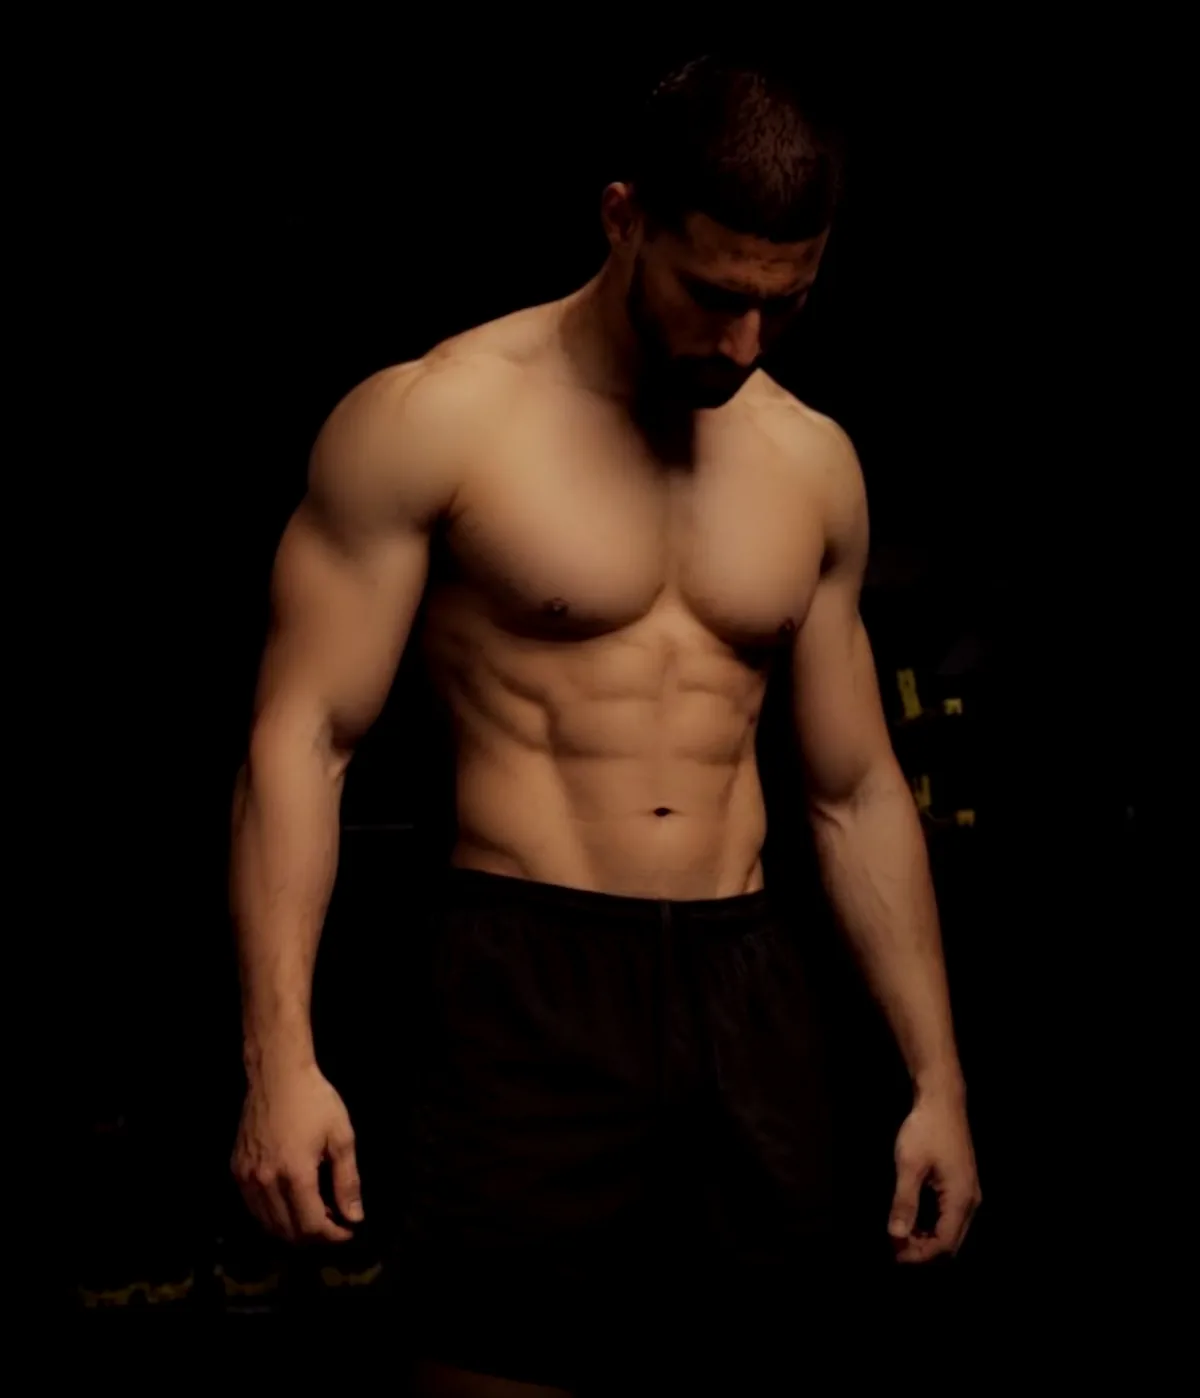
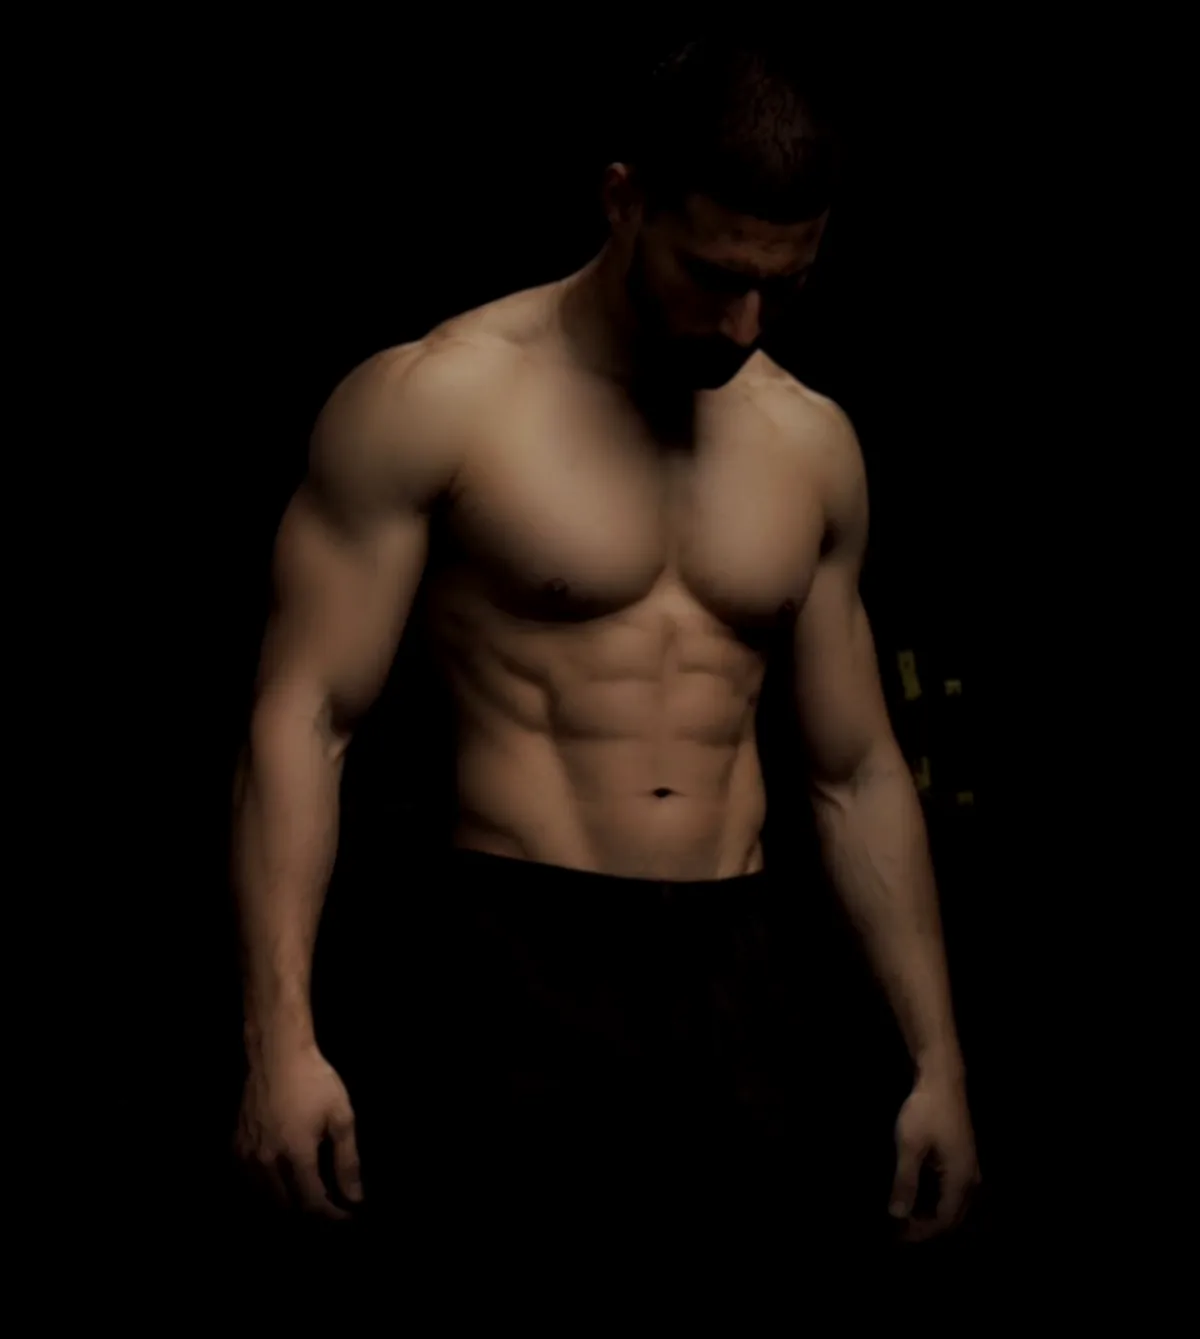
Coaching hero: final neutral-tone photo
Claude-Session: https://claude.ai/code/session_01JVtyGLL2rkCAeaZXtAcKGK

diff --git a/coaching.html b/coaching.html
@@ -10,7 +10,7 @@
 <link rel="apple-touch-icon" href="/assets/img/apple-touch-icon.png">
 <link rel="preconnect" href="https://fonts.googleapis.com">
 <link rel="stylesheet" href="https://fonts.googleapis.com/css2?family=Russo+One&family=Bebas+Neue&family=Inter:wght@400;500;600;700&display=swap">
-<link rel="stylesheet" href="/assets/style.css?v=202610272137">
+<link rel="stylesheet" href="/assets/style.css?v=202610272141">
 <script defer src="/_vercel/insights/script.js"></script>
 <script>
 !function(t,e){var o,n,p,r;e.__SV||(window.posthog=e,e._i=[],e.init=function(i,s,a){function g(t,e){var o=e.split(".");2==o.length&&(t=t[o[0]],e=o[1]),t[e]=function(){t.push([e].concat(Array.prototype.slice.call(arguments,0)))}}(p=t.createElement("script")).type="text/javascript",p.crossOrigin="anonymous",p.async=!0,p.src=s.api_host.replace(".i.posthog.com","-assets.i.posthog.com")+"/static/array.js",(r=t.getElementsByTagName("script")[0]).parentNode.insertBefore(p,r);var u=e;for(void 0!==a?u=e[a]=[]:a="posthog",u.people=u.people||[],u.toString=function(t){var e="posthog";return"posthog"!==a&&(e+="."+a),t||(e+=" (stub)"),e},u.people.toString=function(){return u.toString(1)+".people (stub)"},o="init capture register register_once register_for_session unregister unregister_for_session getFeatureFlag getFeatureFlagPayload isFeatureEnabled reloadFeatureFlags updateEarlyAccessFeatureEnrollment getEarlyAccessFeatures on onFeatureFlags onSessionId getSurveys getActiveMatchingSurveys renderSurvey canRenderSurvey identify setPersonProperties group resetGroups setPersonPropertiesForFlags resetPersonPropertiesForFlags setGroupPropertiesForFlags resetGroupPropertiesForFlags reset get_distinct_id getGroups get_session_id get_session_replay_url alias set_config startSessionRecording stopSessionRecording sessionRecordingStarted captureException loadToolbar get_property getSessionProperty createPersonProfile opt_in_capturing opt_out_capturing has_opted_in_capturing has_opted_out_capturing clear_opt_in_out_capturing debug getPageViewId captureTraceFeedback captureTraceMetric".split(" "),n=0;n<o.length;n++)g(u,o[n]);e._i.push([i,s,a])},e.__SV=1)}(document,window.posthog||[]);
@@ -52,8 +52,8 @@ posthog.init('phc_C28JrHMEpH7d9g8dcuLgvfjdZ2WqwZE8aeRjLSCBrC3R',{api_host:'https
     </div>
     <div class="coach-photo">
       <picture>
-        <source srcset="/assets/img/cris-hero.webp?v=202610272137" type="image/webp">
-        <img src="/assets/img/cris-hero.jpg?v=202610272137" alt="Cris, Gaincations coach" width="1200" height="1398" fetchpriority="high">
+        <source srcset="/assets/img/cris-hero.webp?v=202610272141" type="image/webp">
+        <img src="/assets/img/cris-hero.jpg?v=202610272141" alt="Cris, Gaincations coach" width="1200" height="1339" fetchpriority="high">
       </picture>
     </div>
   </div>
@@ -191,6 +191,6 @@ posthog.init('phc_C28JrHMEpH7d9g8dcuLgvfjdZ2WqwZE8aeRjLSCBrC3R',{api_host:'https
   </div>
 </footer>
 <script>document.getElementById("y").textContent=new Date().getFullYear()</script>
-<script src="/assets/site.js?v=202610272137"></script>
+<script src="/assets/site.js?v=202610272141"></script>
 </body>
 </html>

diff --git a/index.html b/index.html
@@ -13,7 +13,7 @@
 <link rel="apple-touch-icon" href="/assets/img/apple-touch-icon.png">
 <link rel="preconnect" href="https://fonts.googleapis.com">
 <link rel="stylesheet" href="https://fonts.googleapis.com/css2?family=Russo+One&family=Bebas+Neue&family=Inter:wght@400;500;600;700&display=swap">
-<link rel="stylesheet" href="/assets/style.css?v=202610272137">
+<link rel="stylesheet" href="/assets/style.css?v=202610272141">
 <script defer src="/_vercel/insights/script.js"></script>
 <script>
 !function(t,e){var o,n,p,r;e.__SV||(window.posthog=e,e._i=[],e.init=function(i,s,a){function g(t,e){var o=e.split(".");2==o.length&&(t=t[o[0]],e=o[1]),t[e]=function(){t.push([e].concat(Array.prototype.slice.call(arguments,0)))}}(p=t.createElement("script")).type="text/javascript",p.crossOrigin="anonymous",p.async=!0,p.src=s.api_host.replace(".i.posthog.com","-assets.i.posthog.com")+"/static/array.js",(r=t.getElementsByTagName("script")[0]).parentNode.insertBefore(p,r);var u=e;for(void 0!==a?u=e[a]=[]:a="posthog",u.people=u.people||[],u.toString=function(t){var e="posthog";return"posthog"!==a&&(e+="."+a),t||(e+=" (stub)"),e},u.people.toString=function(){return u.toString(1)+".people (stub)"},o="init capture register register_once register_for_session unregister unregister_for_session getFeatureFlag getFeatureFlagPayload isFeatureEnabled reloadFeatureFlags updateEarlyAccessFeatureEnrollment getEarlyAccessFeatures on onFeatureFlags onSessionId getSurveys getActiveMatchingSurveys renderSurvey canRenderSurvey identify setPersonProperties group resetGroups setPersonPropertiesForFlags resetPersonPropertiesForFlags setGroupPropertiesForFlags resetGroupPropertiesForFlags reset get_distinct_id getGroups get_session_id get_session_replay_url alias set_config startSessionRecording stopSessionRecording sessionRecordingStarted captureException loadToolbar get_property getSessionProperty createPersonProfile opt_in_capturing opt_out_capturing has_opted_in_capturing has_opted_out_capturing clear_opt_in_out_capturing debug getPageViewId captureTraceFeedback captureTraceMetric".split(" "),n=0;n<o.length;n++)g(u,o[n]);e._i.push([i,s,a])},e.__SV=1)}(document,window.posthog||[]);
@@ -215,7 +215,7 @@ posthog.init('phc_C28JrHMEpH7d9g8dcuLgvfjdZ2WqwZE8aeRjLSCBrC3R',{api_host:'https
   </div>
 </footer>
 <script>document.getElementById("y").textContent=new Date().getFullYear()</script>
-<script src="/assets/quiz.js?v=202610272137"></script>
-<script src="/assets/site.js?v=202610272137"></script>
+<script src="/assets/quiz.js?v=202610272141"></script>
+<script src="/assets/site.js?v=202610272141"></script>
 </body>
 </html>

diff --git a/agreement.html b/agreement.html
@@ -10,7 +10,7 @@
 <link rel="apple-touch-icon" href="/assets/img/apple-touch-icon.png">
 <link rel="preconnect" href="https://fonts.googleapis.com">
 <link rel="stylesheet" href="https://fonts.googleapis.com/css2?family=Russo+One&family=Bebas+Neue&family=Inter:wght@400;500;600;700&display=swap">
-<link rel="stylesheet" href="/assets/style.css?v=202610272137">
+<link rel="stylesheet" href="/assets/style.css?v=202610272141">
 <script defer src="/_vercel/insights/script.js"></script>
 <script>
 !function(t,e){var o,n,p,r;e.__SV||(window.posthog=e,e._i=[],e.init=function(i,s,a){function g(t,e){var o=e.split(".");2==o.length&&(t=t[o[0]],e=o[1]),t[e]=function(){t.push([e].concat(Array.prototype.slice.call(arguments,0)))}}(p=t.createElement("script")).type="text/javascript",p.crossOrigin="anonymous",p.async=!0,p.src=s.api_host.replace(".i.posthog.com","-assets.i.posthog.com")+"/static/array.js",(r=t.getElementsByTagName("script")[0]).parentNode.insertBefore(p,r);var u=e;for(void 0!==a?u=e[a]=[]:a="posthog",u.people=u.people||[],u.toString=function(t){var e="posthog";return"posthog"!==a&&(e+="."+a),t||(e+=" (stub)"),e},u.people.toString=function(){return u.toString(1)+".people (stub)"},o="init capture register register_once register_for_session unregister unregister_for_session getFeatureFlag getFeatureFlagPayload isFeatureEnabled reloadFeatureFlags updateEarlyAccessFeatureEnrollment getEarlyAccessFeatures on onFeatureFlags onSessionId getSurveys getActiveMatchingSurveys renderSurvey canRenderSurvey identify setPersonProperties group resetGroups setPersonPropertiesForFlags resetPersonPropertiesForFlags setGroupPropertiesForFlags resetGroupPropertiesForFlags reset get_distinct_id getGroups get_session_id get_session_replay_url alias set_config startSessionRecording stopSessionRecording sessionRecordingStarted captureException loadToolbar get_property getSessionProperty createPersonProfile opt_in_capturing opt_out_capturing has_opted_in_capturing has_opted_out_capturing clear_opt_in_out_capturing debug getPageViewId captureTraceFeedback captureTraceMetric".split(" "),n=0;n<o.length;n++)g(u,o[n]);e._i.push([i,s,a])},e.__SV=1)}(document,window.posthog||[]);
@@ -89,7 +89,7 @@ posthog.init('phc_C28JrHMEpH7d9g8dcuLgvfjdZ2WqwZE8aeRjLSCBrC3R',{api_host:'https
   </div>
 </footer>
 <script>document.getElementById("y").textContent=new Date().getFullYear()</script>
-<script src="/assets/site.js?v=202610272137"></script>
+<script src="/assets/site.js?v=202610272141"></script>
 <script>try{posthog.capture("purchase_completed")}catch(e){}</script>
 </body>
 </html>

diff --git a/welcome.html b/welcome.html
@@ -10,7 +10,7 @@
 <link rel="apple-touch-icon" href="/assets/img/apple-touch-icon.png">
 <link rel="preconnect" href="https://fonts.googleapis.com">
 <link rel="stylesheet" href="https://fonts.googleapis.com/css2?family=Russo+One&family=Bebas+Neue&family=Inter:wght@400;500;600;700&display=swap">
-<link rel="stylesheet" href="/assets/style.css?v=202610272137">
+<link rel="stylesheet" href="/assets/style.css?v=202610272141">
 <script defer src="/_vercel/insights/script.js"></script>
 <script>
 !function(t,e){var o,n,p,r;e.__SV||(window.posthog=e,e._i=[],e.init=function(i,s,a){function g(t,e){var o=e.split(".");2==o.length&&(t=t[o[0]],e=o[1]),t[e]=function(){t.push([e].concat(Array.prototype.slice.call(arguments,0)))}}(p=t.createElement("script")).type="text/javascript",p.crossOrigin="anonymous",p.async=!0,p.src=s.api_host.replace(".i.posthog.com","-assets.i.posthog.com")+"/static/array.js",(r=t.getElementsByTagName("script")[0]).parentNode.insertBefore(p,r);var u=e;for(void 0!==a?u=e[a]=[]:a="posthog",u.people=u.people||[],u.toString=function(t){var e="posthog";return"posthog"!==a&&(e+="."+a),t||(e+=" (stub)"),e},u.people.toString=function(){return u.toString(1)+".people (stub)"},o="init capture register register_once register_for_session unregister unregister_for_session getFeatureFlag getFeatureFlagPayload isFeatureEnabled reloadFeatureFlags updateEarlyAccessFeatureEnrollment getEarlyAccessFeatures on onFeatureFlags onSessionId getSurveys getActiveMatchingSurveys renderSurvey canRenderSurvey identify setPersonProperties group resetGroups setPersonPropertiesForFlags resetPersonPropertiesForFlags setGroupPropertiesForFlags resetGroupPropertiesForFlags reset get_distinct_id getGroups get_session_id get_session_replay_url alias set_config startSessionRecording stopSessionRecording sessionRecordingStarted captureException loadToolbar get_property getSessionProperty createPersonProfile opt_in_capturing opt_out_capturing has_opted_in_capturing has_opted_out_capturing clear_opt_in_out_capturing debug getPageViewId captureTraceFeedback captureTraceMetric".split(" "),n=0;n<o.length;n++)g(u,o[n]);e._i.push([i,s,a])},e.__SV=1)}(document,window.posthog||[]);
@@ -78,7 +78,7 @@ posthog.init('phc_C28JrHMEpH7d9g8dcuLgvfjdZ2WqwZE8aeRjLSCBrC3R',{api_host:'https
   </div>
 </footer>
 <script>document.getElementById("y").textContent=new Date().getFullYear()</script>
-<script src="/assets/site.js?v=202610272137"></script>
+<script src="/assets/site.js?v=202610272141"></script>
 <script>try{posthog.capture("purchase_completed")}catch(e){}</script>
 </body>
 </html>

diff --git a/gear.html b/gear.html
@@ -10,7 +10,7 @@
 <link rel="apple-touch-icon" href="/assets/img/apple-touch-icon.png">
 <link rel="preconnect" href="https://fonts.googleapis.com">
 <link rel="stylesheet" href="https://fonts.googleapis.com/css2?family=Russo+One&family=Inter:wght@400;500;600;700&display=swap">
-<link rel="stylesheet" href="/assets/style.css?v=202610272137">
+<link rel="stylesheet" href="/assets/style.css?v=202610272141">
 <script defer src="/_vercel/insights/script.js"></script>
 <script>
 !function(t,e){var o,n,p,r;e.__SV||(window.posthog=e,e._i=[],e.init=function(i,s,a){function g(t,e){var o=e.split(".");2==o.length&&(t=t[o[0]],e=o[1]),t[e]=function(){t.push([e].concat(Array.prototype.slice.call(arguments,0)))}}(p=t.createElement("script")).type="text/javascript",p.crossOrigin="anonymous",p.async=!0,p.src=s.api_host.replace(".i.posthog.com","-assets.i.posthog.com")+"/static/array.js",(r=t.getElementsByTagName("script")[0]).parentNode.insertBefore(p,r);var u=e;for(void 0!==a?u=e[a]=[]:a="posthog",u.people=u.people||[],u.toString=function(t){var e="posthog";return"posthog"!==a&&(e+="."+a),t||(e+=" (stub)"),e},u.people.toString=function(){return u.toString(1)+".people (stub)"},o="init capture register register_once register_for_session unregister unregister_for_session getFeatureFlag getFeatureFlagPayload isFeatureEnabled reloadFeatureFlags updateEarlyAccessFeatureEnrollment getEarlyAccessFeatures on onFeatureFlags onSessionId getSurveys getActiveMatchingSurveys renderSurvey canRenderSurvey identify setPersonProperties group resetGroups setPersonPropertiesForFlags resetPersonPropertiesForFlags setGroupPropertiesForFlags resetGroupPropertiesForFlags reset get_distinct_id getGroups get_session_id get_session_replay_url alias set_config startSessionRecording stopSessionRecording sessionRecordingStarted captureException loadToolbar get_property getSessionProperty createPersonProfile opt_in_capturing opt_out_capturing has_opted_in_capturing has_opted_out_capturing clear_opt_in_out_capturing debug getPageViewId captureTraceFeedback captureTraceMetric".split(" "),n=0;n<o.length;n++)g(u,o[n]);e._i.push([i,s,a])},e.__SV=1)}(document,window.posthog||[]);
@@ -100,6 +100,6 @@ posthog.init('phc_C28JrHMEpH7d9g8dcuLgvfjdZ2WqwZE8aeRjLSCBrC3R',{api_host:'https
   </div>
 </footer>
 <script>document.getElementById("y").textContent=new Date().getFullYear()</script>
-<script src="/assets/site.js?v=202610272137"></script>
+<script src="/assets/site.js?v=202610272141"></script>
 </body>
 </html>

diff --git a/free.html b/free.html
@@ -10,7 +10,7 @@
 <link rel="apple-touch-icon" href="/assets/img/apple-touch-icon.png">
 <link rel="preconnect" href="https://fonts.googleapis.com">
 <link rel="stylesheet" href="https://fonts.googleapis.com/css2?family=Russo+One&family=Inter:wght@400;500;600;700&display=swap">
-<link rel="stylesheet" href="/assets/style.css?v=202610272137">
+<link rel="stylesheet" href="/assets/style.css?v=202610272141">
 <script defer src="/_vercel/insights/script.js"></script>
 <script>
 !function(t,e){var o,n,p,r;e.__SV||(window.posthog=e,e._i=[],e.init=function(i,s,a){function g(t,e){var o=e.split(".");2==o.length&&(t=t[o[0]],e=o[1]),t[e]=function(){t.push([e].concat(Array.prototype.slice.call(arguments,0)))}}(p=t.createElement("script")).type="text/javascript",p.crossOrigin="anonymous",p.async=!0,p.src=s.api_host.replace(".i.posthog.com","-assets.i.posthog.com")+"/static/array.js",(r=t.getElementsByTagName("script")[0]).parentNode.insertBefore(p,r);var u=e;for(void 0!==a?u=e[a]=[]:a="posthog",u.people=u.people||[],u.toString=function(t){var e="posthog";return"posthog"!==a&&(e+="."+a),t||(e+=" (stub)"),e},u.people.toString=function(){return u.toString(1)+".people (stub)"},o="init capture register register_once register_for_session unregister unregister_for_session getFeatureFlag getFeatureFlagPayload isFeatureEnabled reloadFeatureFlags updateEarlyAccessFeatureEnrollment getEarlyAccessFeatures on onFeatureFlags onSessionId getSurveys getActiveMatchingSurveys renderSurvey canRenderSurvey identify setPersonProperties group resetGroups setPersonPropertiesForFlags resetPersonPropertiesForFlags setGroupPropertiesForFlags resetGroupPropertiesForFlags reset get_distinct_id getGroups get_session_id get_session_replay_url alias set_config startSessionRecording stopSessionRecording sessionRecordingStarted captureException loadToolbar get_property getSessionProperty createPersonProfile opt_in_capturing opt_out_capturing has_opted_in_capturing has_opted_out_capturing clear_opt_in_out_capturing debug getPageViewId captureTraceFeedback captureTraceMetric".split(" "),n=0;n<o.length;n++)g(u,o[n]);e._i.push([i,s,a])},e.__SV=1)}(document,window.posthog||[]);
@@ -84,6 +84,6 @@ posthog.init('phc_C28JrHMEpH7d9g8dcuLgvfjdZ2WqwZE8aeRjLSCBrC3R',{api_host:'https
   </div>
 </footer>
 <script>document.getElementById("y").textContent=new Date().getFullYear()</script>
-<script src="/assets/site.js?v=202610272137"></script>
+<script src="/assets/site.js?v=202610272141"></script>
 </body>
 </html>

diff --git a/programs.html b/programs.html
@@ -11,7 +11,7 @@
 <link rel="apple-touch-icon" href="/assets/img/apple-touch-icon.png">
 <link rel="preconnect" href="https://fonts.googleapis.com">
 <link rel="stylesheet" href="https://fonts.googleapis.com/css2?family=Russo+One&family=Inter:wght@400;500;600;700&display=swap">
-<link rel="stylesheet" href="/assets/style.css?v=202610272137">
+<link rel="stylesheet" href="/assets/style.css?v=202610272141">
 <script defer src="/_vercel/insights/script.js"></script>
 <script>
 !function(t,e){var o,n,p,r;e.__SV||(window.posthog=e,e._i=[],e.init=function(i,s,a){function g(t,e){var o=e.split(".");2==o.length&&(t=t[o[0]],e=o[1]),t[e]=function(){t.push([e].concat(Array.prototype.slice.call(arguments,0)))}}(p=t.createElement("script")).type="text/javascript",p.crossOrigin="anonymous",p.async=!0,p.src=s.api_host.replace(".i.posthog.com","-assets.i.posthog.com")+"/static/array.js",(r=t.getElementsByTagName("script")[0]).parentNode.insertBefore(p,r);var u=e;for(void 0!==a?u=e[a]=[]:a="posthog",u.people=u.people||[],u.toString=function(t){var e="posthog";return"posthog"!==a&&(e+="."+a),t||(e+=" (stub)"),e},u.people.toString=function(){return u.toString(1)+".people (stub)"},o="init capture register register_once register_for_session unregister unregister_for_session getFeatureFlag getFeatureFlagPayload isFeatureEnabled reloadFeatureFlags updateEarlyAccessFeatureEnrollment getEarlyAccessFeatures on onFeatureFlags onSessionId getSurveys getActiveMatchingSurveys renderSurvey canRenderSurvey identify setPersonProperties group resetGroups setPersonPropertiesForFlags resetPersonPropertiesForFlags setGroupPropertiesForFlags resetGroupPropertiesForFlags reset get_distinct_id getGroups get_session_id get_session_replay_url alias set_config startSessionRecording stopSessionRecording sessionRecordingStarted captureException loadToolbar get_property getSessionProperty createPersonProfile opt_in_capturing opt_out_capturing has_opted_in_capturing has_opted_out_capturing clear_opt_in_out_capturing debug getPageViewId captureTraceFeedback captureTraceMetric".split(" "),n=0;n<o.length;n++)g(u,o[n]);e._i.push([i,s,a])},e.__SV=1)}(document,window.posthog||[]);
@@ -77,6 +77,6 @@ posthog.init('phc_C28JrHMEpH7d9g8dcuLgvfjdZ2WqwZE8aeRjLSCBrC3R',{api_host:'https
   </div>
 </footer>
 <script>document.getElementById("y").textContent=new Date().getFullYear()</script>
-<script src="/assets/site.js?v=202610272137"></script>
+<script src="/assets/site.js?v=202610272141"></script>
 </body>
 </html>
